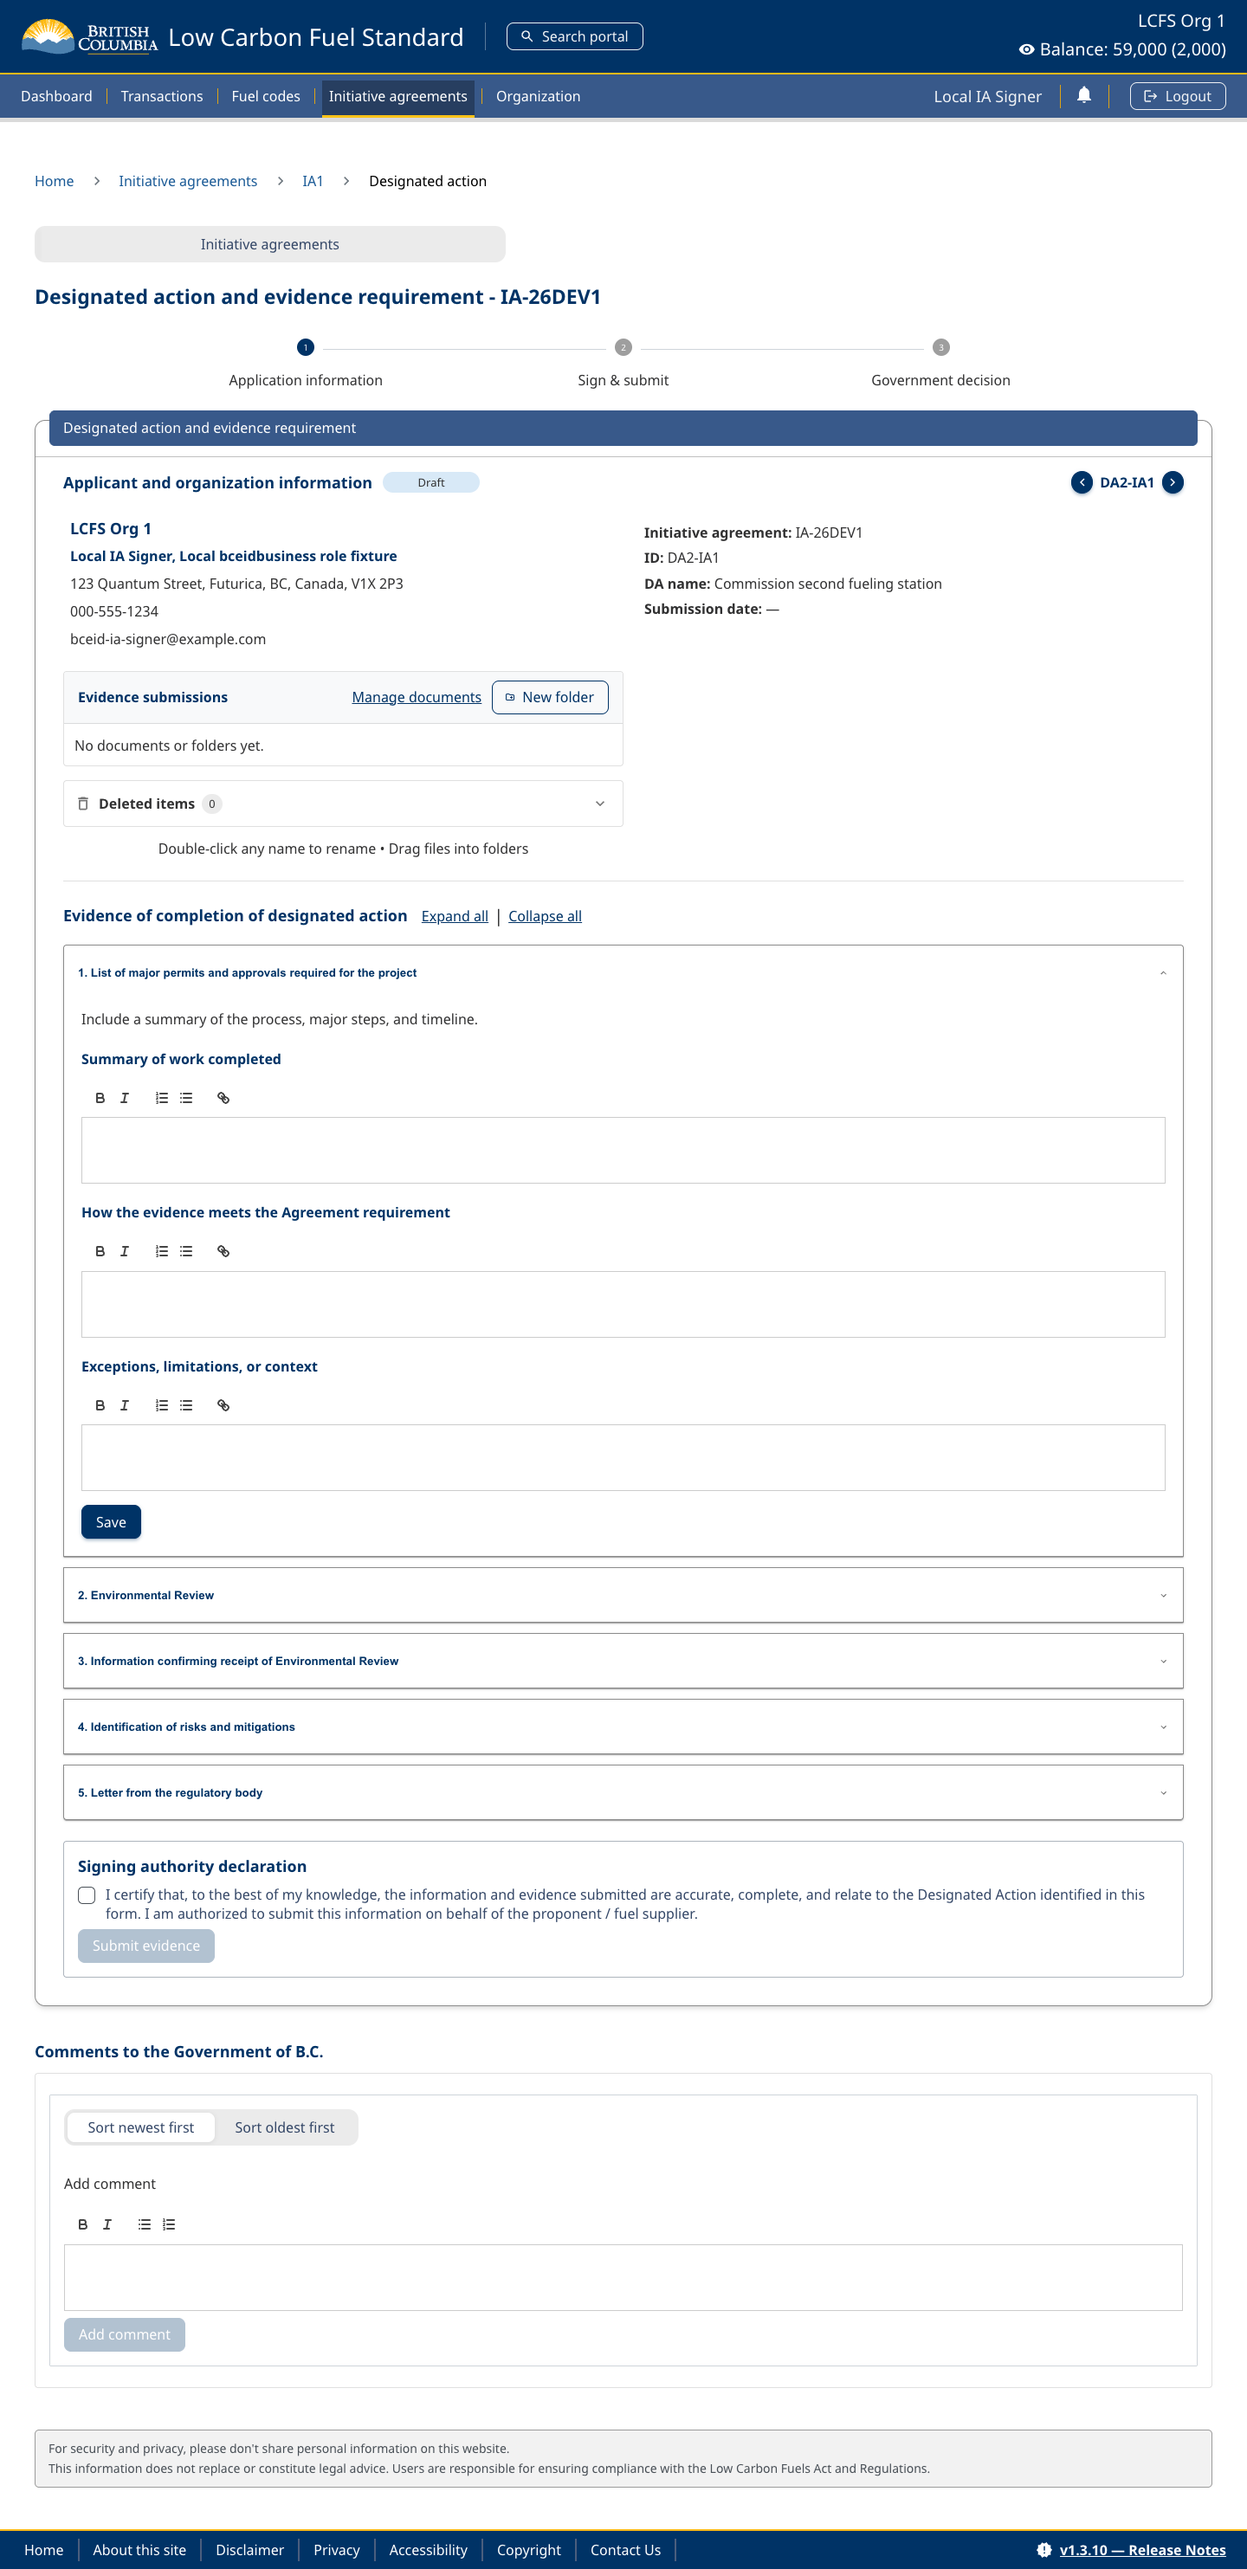
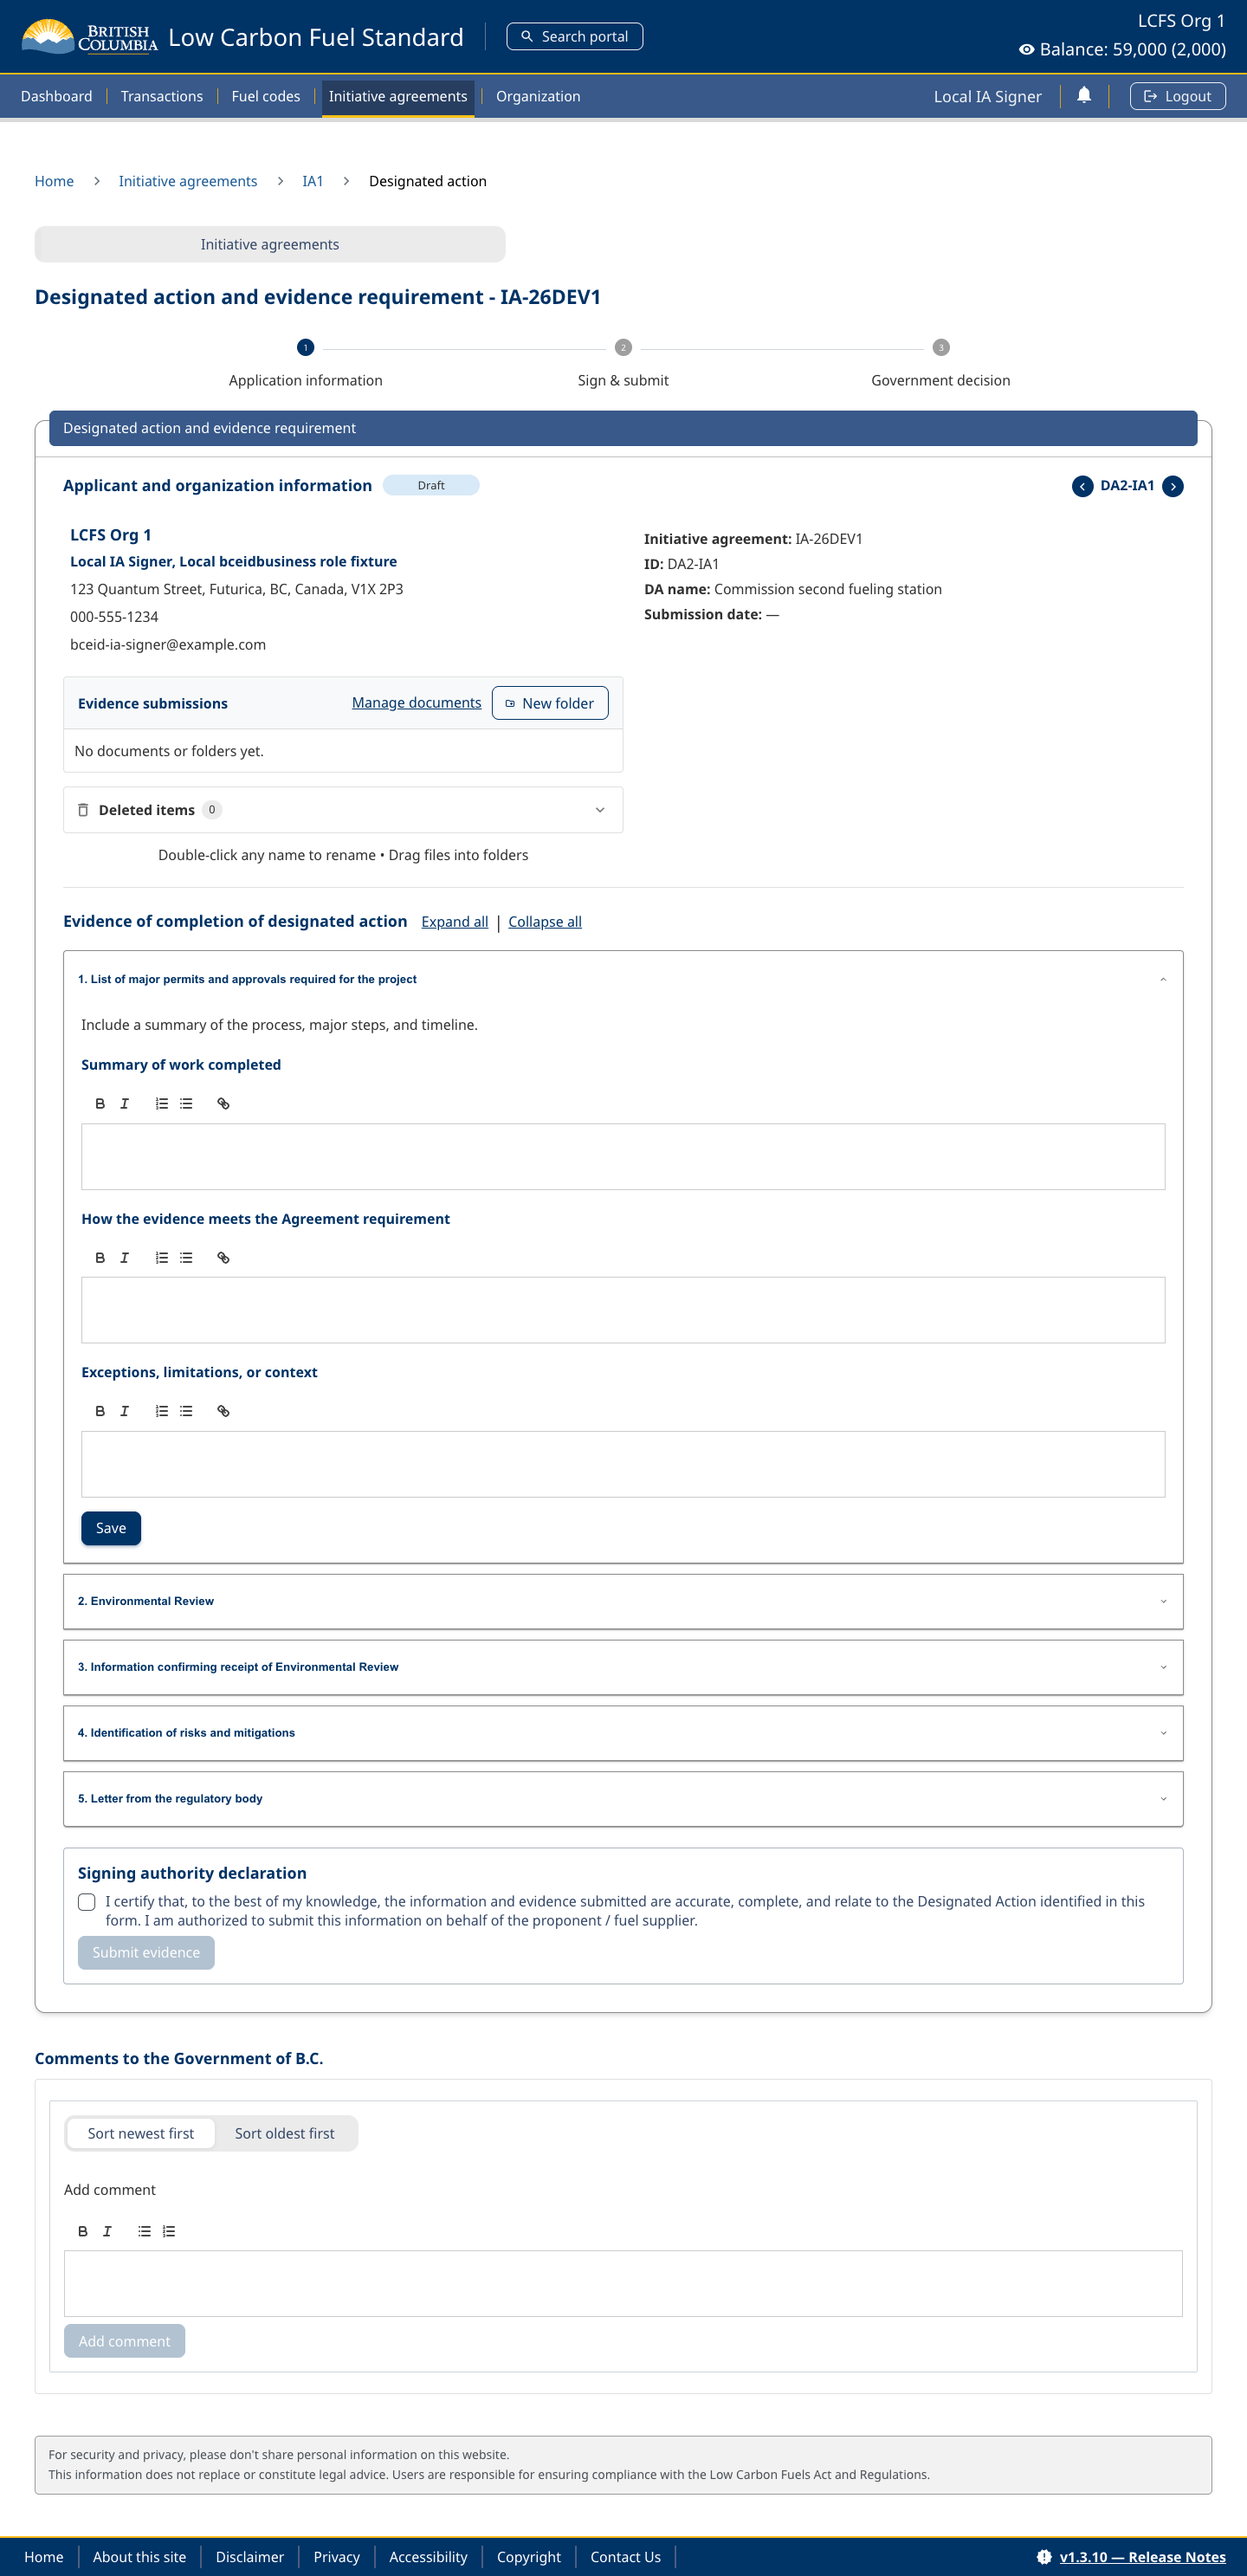
refactor: share adjacent navigation control

diff --git a/frontend/src/views/ComplianceReports/components/ReportYearNavigator.jsx b/frontend/src/views/ComplianceReports/components/ReportYearNavigator.jsx
@@ -1,34 +1,8 @@
-import BCTypography from '@/components/BCTypography'
 import ROUTES from '@/routes/routes'
-import ChevronLeft from '@mui/icons-material/ChevronLeft'
-import ChevronRight from '@mui/icons-material/ChevronRight'
-import Box from '@mui/material/Box'
-import IconButton from '@mui/material/IconButton'
-import Tooltip from '@mui/material/Tooltip'
 import PropTypes from 'prop-types'
 import { useTranslation } from 'react-i18next'
 import { useNavigate } from 'react-router-dom'
-
-const navButtonSx = {
-  backgroundColor: '#003366',
-  color: 'white !important',
-  borderRadius: '50%',
-  width: 25,
-  height: 25,
-  padding: 0,
-  '& .MuiSvgIcon-root': {
-    color: 'white',
-    fontSize: '18px !important'
-  },
-  '&:hover': {
-    backgroundColor: '#004080',
-    '& .MuiSvgIcon-root': { color: 'white' }
-  },
-  '&.Mui-disabled': {
-    backgroundColor: '#c0c0c0',
-    color: '#808080'
-  }
-}
+import AdjacentItemNavigation from '@/components/AdjacentItemNavigation'
 
 /**
  * Year navigation with arrows, disabled if no adjacent report.
@@ -68,52 +42,27 @@ export const ReportYearNavigator = ({
     : t('report:yearNavigator.noNext')
 
   return (
-    <Box
-      data-test="report-year-navigator"
-      sx={{ display: 'inline-flex', alignItems: 'center', gap: 2 }}
-    >
-      <Tooltip title={previousTooltip} placement="top" arrow>
-        <span>
-          <IconButton
-            data-test="report-year-navigator-previous"
-            aria-label={t('report:yearNavigator.previous')}
-            size="small"
-            onClick={() => goTo(previous)}
-            disabled={previousDisabled}
-            sx={navButtonSx}
-          >
-            <ChevronLeft />
-          </IconButton>
-        </span>
-      </Tooltip>
-      <BCTypography
-        variant="h5"
-        component="span"
-        data-test="report-year-navigator-current"
-        sx={{
-          minWidth: '3.5rem',
-          textAlign: 'center',
-          color: '#003366',
-          fontWeight: 'bold'
-        }}
-      >
-        {currentCompliancePeriod}
-      </BCTypography>
-      <Tooltip title={nextTooltip} placement="top" arrow>
-        <span>
-          <IconButton
-            data-test="report-year-navigator-next"
-            aria-label={t('report:yearNavigator.next')}
-            size="small"
-            onClick={() => goTo(next)}
-            disabled={nextDisabled}
-            sx={navButtonSx}
-          >
-            <ChevronRight />
-          </IconButton>
-        </span>
-      </Tooltip>
-    </Box>
+    <AdjacentItemNavigation
+      currentLabel={currentCompliancePeriod}
+      currentLabelVariant="h5"
+      currentLabelSx={{
+        minWidth: '3.5rem',
+        textAlign: 'center',
+        color: '#003366',
+        fontWeight: 'bold'
+      }}
+      onPrevious={() => goTo(previous)}
+      onNext={() => goTo(next)}
+      previousDisabled={previousDisabled}
+      nextDisabled={nextDisabled}
+      previousTooltip={previousTooltip}
+      nextTooltip={nextTooltip}
+      previousAriaLabel={t('report:yearNavigator.previous')}
+      nextAriaLabel={t('report:yearNavigator.next')}
+      testIdPrefix="report-year-navigator"
+      gap={2}
+      containerSx={{ display: 'inline-flex' }}
+    />
   )
 }
 

diff --git a/frontend/src/views/InitiativeAgreements/components/DesignatedActionNavigation.jsx b/frontend/src/views/InitiativeAgreements/components/DesignatedActionNavigation.jsx
@@ -1,32 +1,7 @@
 import { useTranslation } from 'react-i18next'
 import { useNavigate } from 'react-router-dom'
-import ChevronLeftIcon from '@mui/icons-material/ChevronLeft'
-import ChevronRightIcon from '@mui/icons-material/ChevronRight'
-import BCBox from '@/components/BCBox'
-import BCButton from '@/components/BCButton'
-import BCTypography from '@/components/BCTypography'
+import AdjacentItemNavigation from '@/components/AdjacentItemNavigation'
 import { ROUTES, buildPath } from '@/routes/routes'
-
-const navButtonSx = {
-  backgroundColor: '#003366',
-  color: 'white !important',
-  borderRadius: '50%',
-  width: 25,
-  height: 25,
-  padding: 0,
-  '& .MuiSvgIcon-root': {
-    color: 'white',
-    fontSize: '18px !important'
-  },
-  '&:hover': {
-    backgroundColor: '#004080',
-    '& .MuiSvgIcon-root': { color: 'white' }
-  },
-  '&.Mui-disabled': {
-    backgroundColor: '#c0c0c0',
-    color: '#808080'
-  }
-}
 
 export const DesignatedActionNavigation = ({
   siblingActionIds = [],
@@ -35,7 +10,8 @@ export const DesignatedActionNavigation = ({
   actionNumber,
   actionLabel,
   previousTestId = 'previous-action-button',
-  nextTestId = 'next-action-button'
+  nextTestId = 'next-action-button',
+  currentTestId = 'designated-action-label'
 }) => {
   const { t } = useTranslation(['initiativeAgreement'])
   const navigate = useNavigate()
@@ -61,43 +37,20 @@ export const DesignatedActionNavigation = ({
   }
 
   return (
-    <BCBox
-      sx={{ display: 'flex', alignItems: 'center', gap: 1 }}
-      data-test="designated-action-navigation"
-    >
-      <BCButton
-        variant="contained"
-        color="primary"
-        iconOnly
-        size="small"
-        data-test={previousTestId}
-        aria-label={t('initiativeAgreement:actionDetail.previousAction')}
-        disabled={!previousId}
-        onClick={() => goToSibling(previousId)}
-        sx={navButtonSx}
-      >
-        <ChevronLeftIcon />
-      </BCButton>
-      <BCTypography
-        variant="body4"
-        sx={{ color: 'primary.main', fontWeight: 700 }}
-      >
-        {label}
-      </BCTypography>
-      <BCButton
-        variant="contained"
-        color="primary"
-        iconOnly
-        size="small"
-        data-test={nextTestId}
-        aria-label={t('initiativeAgreement:actionDetail.nextAction')}
-        disabled={!nextId}
-        onClick={() => goToSibling(nextId)}
-        sx={navButtonSx}
-      >
-        <ChevronRightIcon />
-      </BCButton>
-    </BCBox>
+    <AdjacentItemNavigation
+      currentLabel={label}
+      currentLabelSx={{ color: 'primary.main', fontWeight: 700 }}
+      previousAriaLabel={t('initiativeAgreement:actionDetail.previousAction')}
+      nextAriaLabel={t('initiativeAgreement:actionDetail.nextAction')}
+      previousDisabled={!previousId}
+      nextDisabled={!nextId}
+      onPrevious={() => goToSibling(previousId)}
+      onNext={() => goToSibling(nextId)}
+      previousTestId={previousTestId}
+      nextTestId={nextTestId}
+      currentTestId={currentTestId}
+      testIdPrefix="designated-action-navigation"
+    />
   )
 }
 

diff --git a/frontend/src/components/AdjacentItemNavigation.jsx b/frontend/src/components/AdjacentItemNavigation.jsx
@@ -1,0 +1,92 @@
+import Box from '@mui/material/Box'
+import IconButton from '@mui/material/IconButton'
+import Tooltip from '@mui/material/Tooltip'
+import ChevronLeft from '@mui/icons-material/ChevronLeft'
+import ChevronRight from '@mui/icons-material/ChevronRight'
+import BCTypography from '@/components/BCTypography'
+
+const navButtonSx = {
+  backgroundColor: '#003366',
+  color: 'white !important',
+  borderRadius: '50%',
+  width: 25,
+  height: 25,
+  padding: 0,
+  '& .MuiSvgIcon-root': {
+    color: 'white',
+    fontSize: '18px !important'
+  },
+  '&:hover': {
+    backgroundColor: '#004080',
+    '& .MuiSvgIcon-root': { color: 'white' }
+  },
+  '&.Mui-disabled': {
+    backgroundColor: '#c0c0c0',
+    color: '#808080'
+  }
+}
+
+/** Shared circular controls for navigating adjacent records. */
+export const AdjacentItemNavigation = ({
+  currentLabel,
+  onPrevious,
+  onNext,
+  previousDisabled = false,
+  nextDisabled = false,
+  previousTooltip = '',
+  nextTooltip = '',
+  previousAriaLabel,
+  nextAriaLabel,
+  testIdPrefix = 'adjacent-item-navigation',
+  previousTestId,
+  nextTestId,
+  currentTestId,
+  currentLabelVariant = 'body4',
+  currentLabelSx = {},
+  gap = 1,
+  containerSx = {}
+}) => (
+  <Box
+    data-test={testIdPrefix}
+    sx={{ display: 'inline-flex', alignItems: 'center', gap, ...containerSx }}
+  >
+    <Tooltip title={previousTooltip} placement="top" arrow>
+      <span>
+        <IconButton
+          data-test={previousTestId || `${testIdPrefix}-previous`}
+          aria-label={previousAriaLabel}
+          size="small"
+          onClick={onPrevious}
+          disabled={previousDisabled}
+          sx={navButtonSx}
+        >
+          <ChevronLeft />
+        </IconButton>
+      </span>
+    </Tooltip>
+    <BCTypography
+      variant={currentLabelVariant}
+      component="span"
+      data-test={currentTestId || `${testIdPrefix}-current`}
+      sx={currentLabelSx}
+    >
+      {currentLabel}
+    </BCTypography>
+    <Tooltip title={nextTooltip} placement="top" arrow>
+      <span>
+        <IconButton
+          data-test={nextTestId || `${testIdPrefix}-next`}
+          aria-label={nextAriaLabel}
+          size="small"
+          onClick={onNext}
+          disabled={nextDisabled}
+          sx={navButtonSx}
+        >
+          <ChevronRight />
+        </IconButton>
+      </span>
+    </Tooltip>
+  </Box>
+)
+
+export default AdjacentItemNavigation
